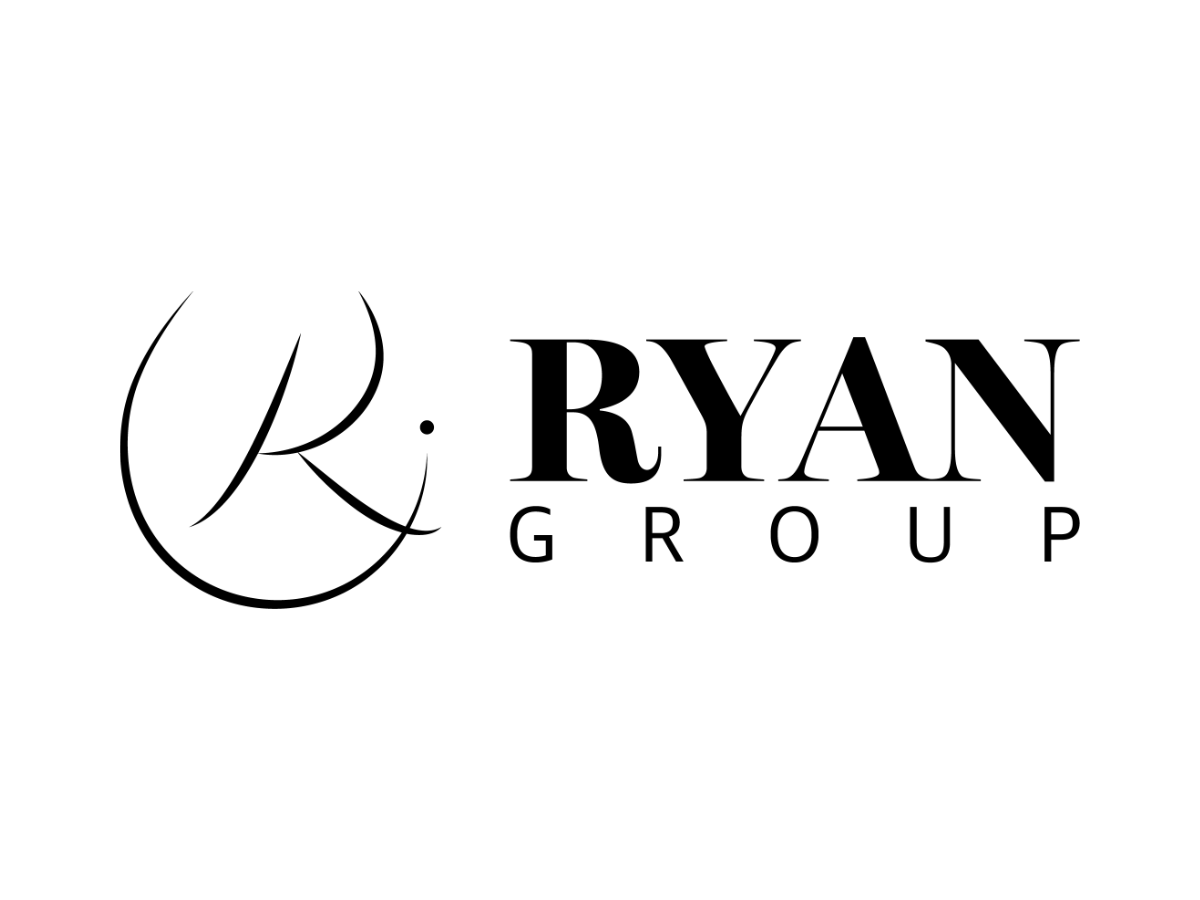
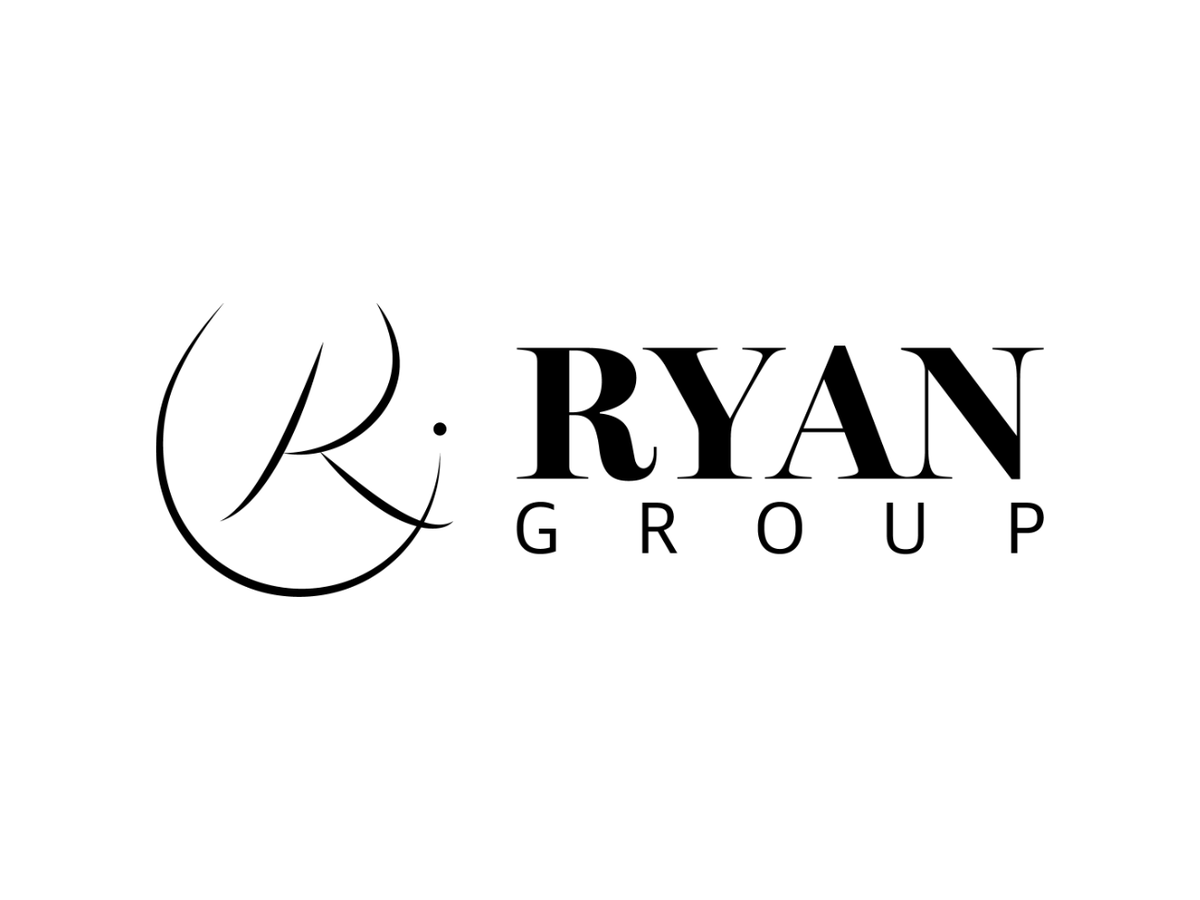
로고 크기 정규화 · 카드 구분선 · 관리자 크기 조절

Changed region(s): [[0.4008, 0.3733, 0.8942, 0.6222], [0.0925, 0.3422, 0.37, 0.6844], [0.8325, 0.56, 0.925, 0.6222]]

diff --git a/works.html b/works.html
@@ -83,7 +83,9 @@ h1,h2,h3{font-family:var(--serif);font-weight:700;letter-spacing:-.015em;line-he
   transition:transform .28s cubic-bezier(.2,.7,.3,1),box-shadow .28s,border-color .28s}
 button.work{cursor:pointer}
 .work:hover{transform:translateY(-5px);box-shadow:var(--shadow-lift);border-color:var(--soft)}
-.work .thumb{aspect-ratio:4/3;position:relative;overflow:hidden;background:var(--brand-tint)}
+/* 흰 배경 로고가 카드에 묻히지 않도록 경계선을 둔다 */
+.work .thumb{aspect-ratio:4/3;position:relative;overflow:hidden;background:var(--brand-tint);
+  border-bottom:1px solid var(--line)}
 .work .thumb img{width:100%;height:100%;object-fit:cover;transition:transform .5s cubic-bezier(.2,.7,.3,1)}
 .work:hover .thumb img{transform:scale(1.045)}
 .work .ph{position:absolute;inset:0;display:flex;flex-direction:column;align-items:center;justify-content:center;gap:10px;

diff --git a/index.html b/index.html
@@ -232,7 +232,9 @@ h3{font-size:1.18rem}
 }
 button.work{cursor:pointer}
 .work:hover{transform:translateY(-5px);box-shadow:var(--shadow-lift);border-color:var(--soft)}
-.work .thumb{aspect-ratio:4/3;position:relative;overflow:hidden;background:var(--brand-tint)}
+/* 흰 배경 로고가 카드에 묻히지 않도록 경계선을 둔다 */
+.work .thumb{aspect-ratio:4/3;position:relative;overflow:hidden;background:var(--brand-tint);
+  border-bottom:1px solid var(--line)}
 .work .thumb img{width:100%;height:100%;object-fit:cover;transition:transform .5s cubic-bezier(.2,.7,.3,1)}
 .work:hover .thumb img{transform:scale(1.045)}
 /* 이미지 없을 때 — 비어 보이지 않는 자리표시자 */
